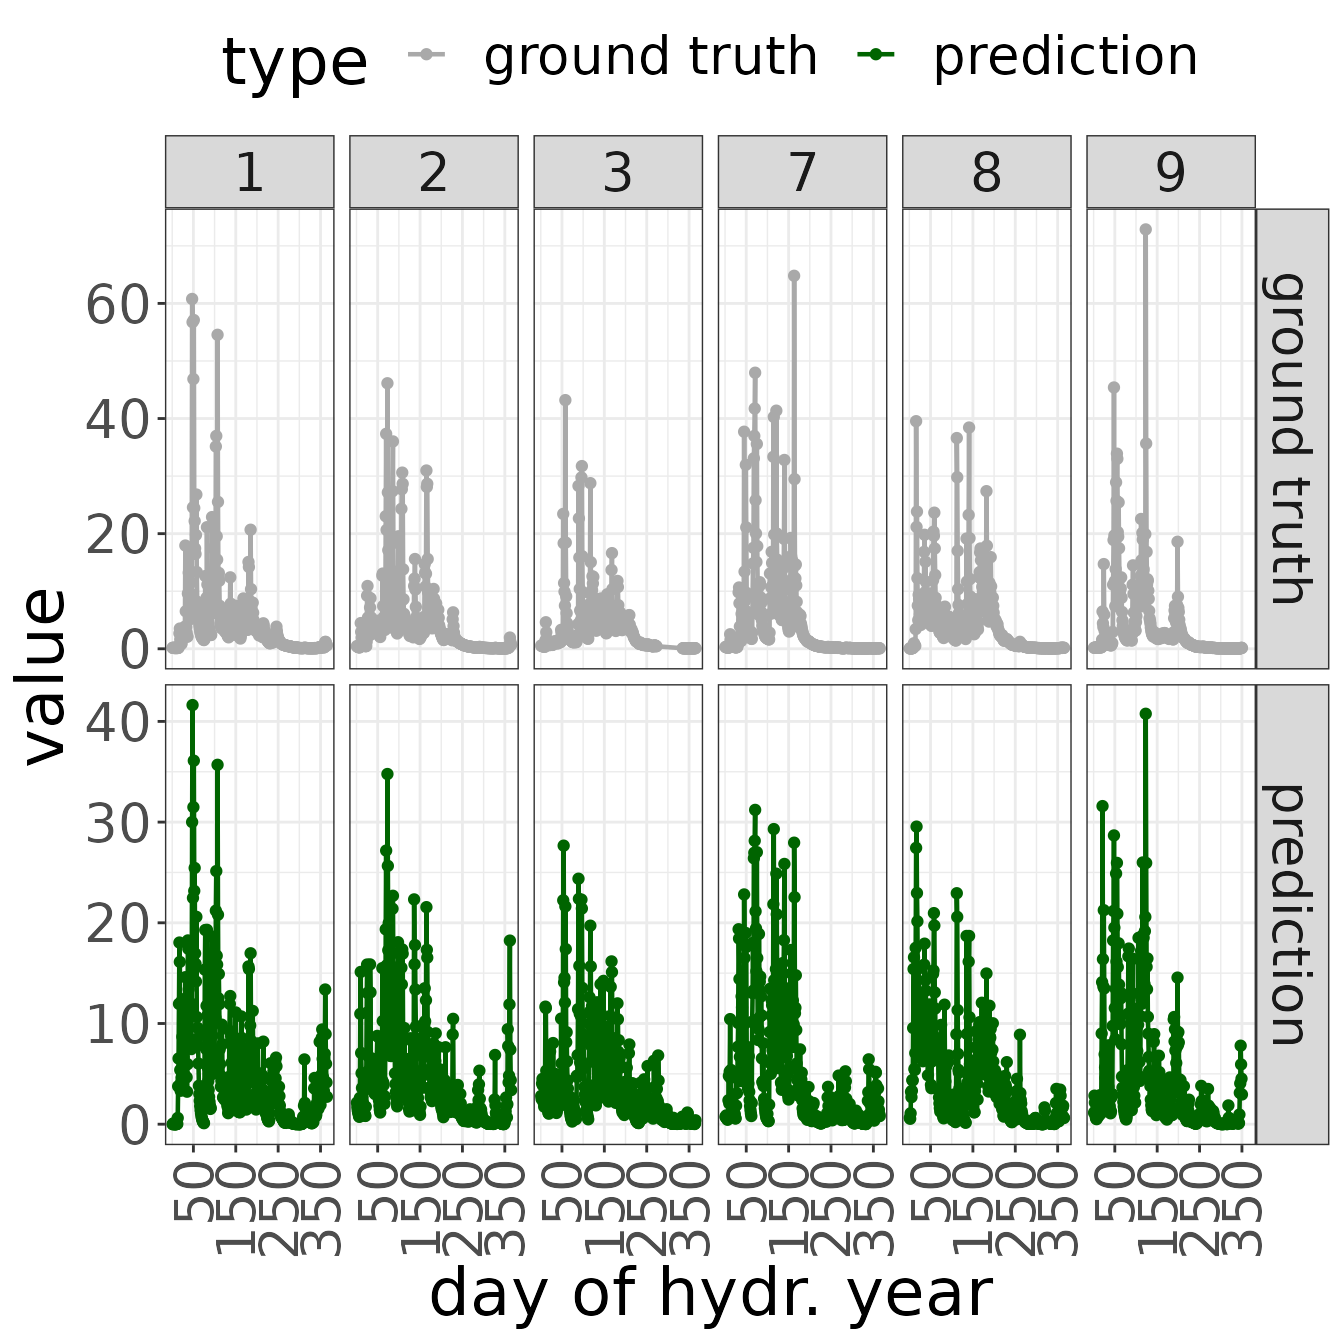
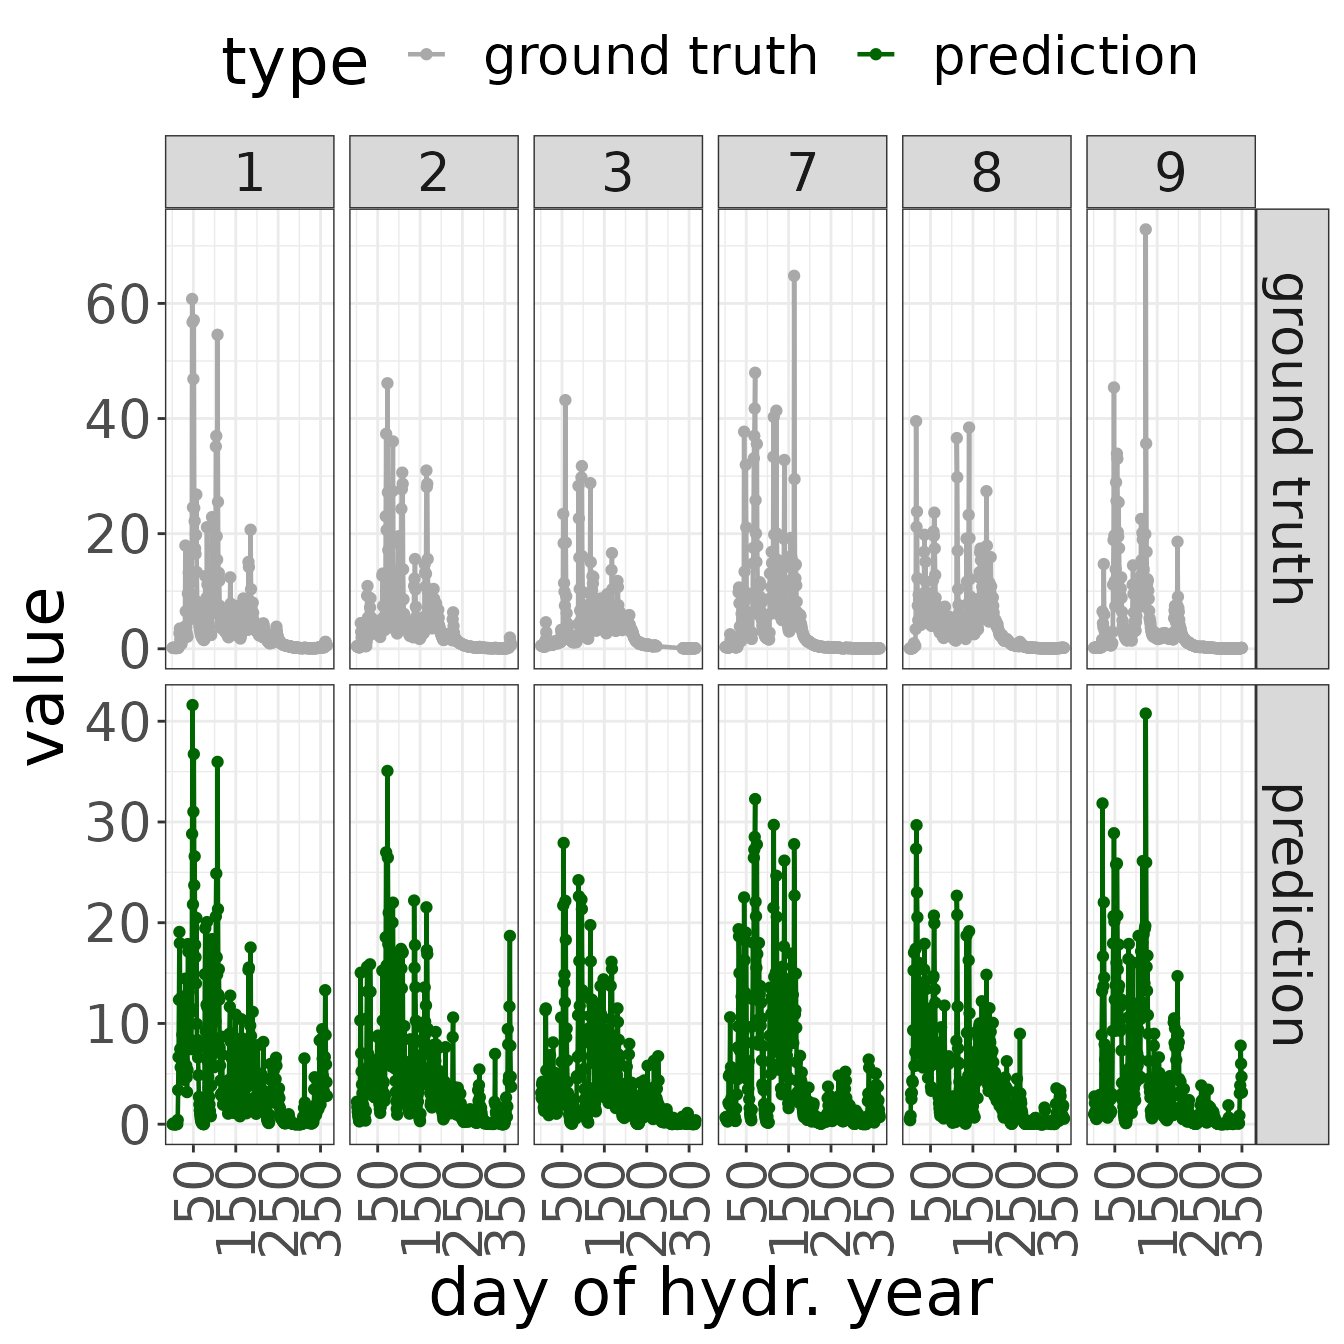
Deploying to gh-pages from @ sschrunner/SlidingWindowReg@dbefc789b85749bd9dbde1c45d30036f2cb8ef8a 🚀

diff --git a/index.html b/index.html
@@ -66,18 +66,21 @@
 <!-- badges: start -->
 
 <div class="section level2">
-<h2 id="a-sliding-multi-window-regression-model">A Sliding Multi-Window Regression Model<a class="anchor" aria-label="anchor" href="#a-sliding-multi-window-regression-model"></a>
+<h2 id="a-gaussian-sliding-windows-regression-model">A Gaussian Sliding Windows Regression Model<a class="anchor" aria-label="anchor" href="#a-gaussian-sliding-windows-regression-model"></a>
 </h2>
-<p>This R package presents a Sliding Multi-Window Regression model for hydrological inference. Given an input time series <span class="math inline"><em>x</em><sub><em>t</em></sub></span> (describing rainfall in a hydrological setting) and a time-dependent target variable <span class="math inline"><em>y</em><sub><em>t</em></sub></span> describing the gauged watershed runoff, the model is based on a set of <span class="math inline"><em>k</em></span> lagged window kernels modeling one component of the overall water runoff each. For instance, surface flow, characterized by short time lags, may be represented by window 1, while groundwater flow is described by a second window with longer time lag.</p>
-<p>Each window <span class="math inline"><em>i</em> ∈ {1, …, <em>k</em>}</span> is characterized by * a location parameter <span class="math inline"><em>δ</em><sub><em>i</em></sub></span> indicating the time lag, i.e. the distance between the window center and the estimated time point on the time axis, and * a size parameter <span class="math inline"><em>σ</em><sub><em>i</em></sub></span> defining the width <span class="math inline"><em>l</em><sub><em>i</em></sub></span> of the window. The predicted runoff associated with window <span class="math inline"><em>i</em></span> is computed as the rolling average of the input time series <span class="math inline"><em>x</em><sub><em>t</em></sub></span> with the window kernel parameters <span class="math inline"><em>κ</em><sub><em>i</em></sub></span> as weights, i.e. <span class="math inline"><em>κ</em><sub><em>i</em></sub><sup><em>T</em></sup><em>x</em><sub><em>S</em><sub><em>i</em></sub></sub></span>, where <span class="math inline"><em>S</em><sub><em>i</em></sub> = {<em>t</em> − <em>δ</em><sub><em>i</em></sub> − <em>l</em><sub><em>i</em></sub>, …, <em>t</em> − <em>δ</em><sub><em>i</em></sub> + <em>l</em><sub><em>i</em></sub>}</span> is the set of time lags <span class="math inline"><em>δ</em><sub><em>i</em></sub> − <em>l</em><sub><em>i</em></sub></span> to <span class="math inline"><em>δ</em><sub><em>i</em></sub> + <em>l</em><sub><em>i</em></sub></span>, and <span class="math inline"><em>x</em><sub><em>S</em><sub><em>i</em></sub></sub> = (<em>x</em><sub><em>t</em> − 1</sub>,…,<em>x</em><sub><em>t</em> − <em>l</em></sub>)</span> denotes the vector of lagged observations.</p>
-<p>The predicted output <span class="math inline"><em>y</em><sub><em>t</em></sub></span> is modeled as a multiple linear regression model</p>
-<p><span class="math display"><em>y</em><sub><em>t</em></sub> = <em>β</em><sub>1</sub>(<em>κ</em><sub>1</sub><sup><em>T</em></sup><em>x</em><sub><em>t</em></sub>) + <em>β</em><sub>2</sub>(<em>κ</em><sub>2</sub><sup><em>T</em></sup><em>x</em><sub><em>t</em></sub>) + … + <em>β</em><sub><em>k</em></sub>(<em>κ</em><sub><em>k</em></sub><sup><em>T</em></sup><em>x</em><sub><em>t</em></sub>) + <em>ε</em><sub><em>t</em></sub>,</span></p>
+<p>This R package presents a Sliding Windows Regression model with Gaussian kernels for hydrological inference, see <a href="https://arxiv.org/abs/2306.00453" class="external-link">Schrunner et al. (2023)</a>. Given an input time series <span class="math inline">(<em>x</em><sub><em>t</em></sub>)_<em>t</em> ∈ <em>T</em></span> (describing rainfall in a hydrological setting) and a time-dependent target variable <span class="math inline">(<em>y</em><sub><em>t</em></sub>)_<em>t</em> ∈ <em>T</em></span> describing the gauged watershed runoff, the model utilizes a set of <span class="math inline"><em>k</em></span> lagged time windows to model one water path each. For instance, surface flow, characterized by short time lags, may be represented by the first window, while groundwater flow is described by a second window with longer time lags.</p>
+<p>A lagged time window <span class="math inline"><em>W</em></span> is an interval on the time axis bounded by time lags <span class="math inline"><em>s</em><sub>min</sub> &lt; <em>s</em><sub>max</sub></span> relative to the current time point <span class="math inline"><em>t</em></span>, <span class="math display">$$W = \[t-s_{\max},t-s_{\min}\].$$</span> For simplicity, <span class="math inline"><em>W</em></span> is represented by its window center (location parameter) <span class="math inline">$\delta = \frac{s_{\min} + s_{\max}}{2}$</span> and the radius (size parameter) <span class="math inline">$l=\frac{s_{\max}-s_{\min}}{2}$</span>, rather than <span class="math inline"><em>s</em><sub>min</sub></span> and <span class="math inline"><em>s</em><sub>max</sub></span> (assuming even-numbered window lengths). For multiple windows <span class="math inline"><em>i</em> = 1, …, <em>k</em></span>, the parameters are given by * location parameters <span class="math inline"><em>δ</em><sub><em>i</em></sub></span> indicating the window centers on the time axis, i.e. the distance between the window center and the estimated time point on the time axis, and * size parameters <span class="math inline"><em>σ</em><sub><em>i</em></sub></span> defining the widths <span class="math inline"><em>l</em><sub><em>i</em></sub></span> of the windows.</p>
+<p>Given such a window <span class="math inline"><em>W</em><sub><em>i</em></sub></span>, we define a Gaussian kernel <span class="math inline"><em>κ</em><sup>(<em>i</em>)</sup></span> as a weight vector approximating the shape of a Gaussian probability density function <span class="math inline"><em>φ</em></span> with mean <span class="math inline"><em>μ</em> = <em>δ</em><sub><em>i</em></sub></span> and standard deviation <span class="math inline">$\sigma = \lceil\frac{l_i}{3}\rceil$</span>. The predicted runoff associated with window <span class="math inline"><em>i</em></span> is then computed as the convolution of the input time series <span class="math inline">(<em>x</em><sub><em>t</em></sub>)_<em>t</em> ∈ <em>T</em></span> with the window kernel <span class="math inline"><em>κ</em><sup>(<em>i</em>)</sup></span> as weight vector, i.e. <span class="math inline"><em>κ</em><sup>(<em>i</em>)</sup> * <em>x</em><sub><em>W</em><sub><em>i</em></sub></sub></span>, where <span class="math inline"><em>x</em><sub><em>W</em></sub> = (<em>x</em><sub><em>t</em> − <em>s</em><sub>max</sub></sub>,…,<em>x</em><sub><em>t</em> − <em>s</em><sub>min</sub></sub>)</span> denotes the vector of lagged observations and <span class="math inline">*</span> denotes the convolution operator.</p>
+<p>Overall, the predicted output <span class="math inline"><em>y</em><sub><em>t</em></sub></span> is modeled as a multiple linear regression model</p>
+<p><span class="math display">$$ y_t = \sum\limits_{i=1}^{k} \beta_i \left(\kappa^{(i)} \ast x_{W_i}\right) + \varepsilon_t, $$</span></p>
 <p>where <span class="math inline"><em>ε</em><sub><em>t</em></sub></span> denotes the model error.</p>
 </div>
 <div class="section level2">
 <h2 id="package-structure">Package structure<a class="anchor" aria-label="anchor" href="#package-structure"></a>
 </h2>
-<p>The core functionality of the package consists of a <tt>train</tt> and a <tt>predict</tt> function, respectively. Further, functions for evaluating and plotting model results and parameters are provided.</p>
+<p>The core functionality of the package consists of functions <tt>train</tt> and <tt>predict</tt>, which perform the model fitting and forecasting steps, respectively. Further, functions for evaluating and plotting model results and parameters are provided.</p>
+<p>The implementation builds on an S3 class <tt>SWR</tt>, which implements multiple generic functions, such as <tt>summary</tt>, <tt>plot</tt>, <tt>coef</tt>, <tt>dim</tt>, <tt>AIC</tt>, or <tt>BIC</tt>. Further, evaluation metrics can be computed using <tt>eval_all</tt>, which calls regression performance metrics <tt>rmse</tt> (root mean square error, RMSE), <tt>nrmse</tt> (normalized RMSE), <tt>r2</tt> (coefficient of determination), as well as hydrological metrics <tt>nse</tt> (Nash-Sutcliffe efficiency) and <tt>kge</tt> (Kling-Gupta efficientcy). Plots are provided for the kernel vectors <span class="math inline"><em>κ</em><sup>(<em>i</em>)</sup></span> via <tt>plot_kernel</tt>, as well as for the predictions using <tt>plot_prediction</tt>.</p>
+<p>A sample dataset <tt>sampleWatershed</tt> is contained in the package. The data originates from a real-world watershed in Cowichan, British Columbia, Canada and contains daily precipitation (input time series), as well as gauged runoff (output time series). Both time series cover a period of 39 hydrological years, starting on October 01, 1979.</p>
 </div>
 <div class="section level2">
 <h2 id="installation">Installation<a class="anchor" aria-label="anchor" href="#installation"></a>
@@ -100,13 +103,32 @@
 <li>parallel,</li>
 <li>pbapply,</li>
 <li>rdist,</li>
-<li>stats</li>
+<li>stats,</li>
+<li>lifecycle</li>
 </ul>
+</div>
+<div class="section level2">
+<h2 id="citation">Citation<a class="anchor" aria-label="anchor" href="#citation"></a>
+</h2>
+<p>If you use <tt>SlidingWindowReg</tt> in a report or scientific publication, we would appreciate citations to the following preprint:</p>
+<p>Schrunner, S. et al. (2023). A Gaussian Sliding Windows Regression Model for Hydrological Inference. arXiv.org (preprint), 2023, <a href="https://doi.org/10.48550/arXiv.2306.00453" class="external-link uri">https://doi.org/10.48550/arXiv.2306.00453</a></p>
+<p>Bibtex entry:</p>
+<div class="sourceCode" id="cb2"><pre class="sourceCode R"><code class="sourceCode r"><span id="cb2-1"><a href="#cb2-1" aria-hidden="true" tabindex="-1"></a><span class="sc">@</span>misc{schrunner2023gaussian,</span>
+<span id="cb2-2"><a href="#cb2-2" aria-hidden="true" tabindex="-1"></a>  title<span class="ot">=</span>{A Gaussian Sliding Windows Regression Model <span class="cf">for</span> Hydrological Inference}, </span>
+<span id="cb2-3"><a href="#cb2-3" aria-hidden="true" tabindex="-1"></a>  author<span class="ot">=</span>{Stefan Schrunner and Joseph Janssen and Anna Jenul and Jiguo Cao and Ali A. Ameli and William J. Welch},</span>
+<span id="cb2-4"><a href="#cb2-4" aria-hidden="true" tabindex="-1"></a>  year<span class="ot">=</span>{<span class="dv">2023</span>},</span>
+<span id="cb2-5"><a href="#cb2-5" aria-hidden="true" tabindex="-1"></a>  howpublished<span class="ot">=</span>{<span class="fu">arXiv.org</span> (preprint)},</span>
+<span id="cb2-6"><a href="#cb2-6" aria-hidden="true" tabindex="-1"></a>  eprint<span class="ot">=</span>{<span class="fl">2306.00453</span>},</span>
+<span id="cb2-7"><a href="#cb2-7" aria-hidden="true" tabindex="-1"></a>  archivePrefix<span class="ot">=</span>{arXiv},</span>
+<span id="cb2-8"><a href="#cb2-8" aria-hidden="true" tabindex="-1"></a>  primaryClass<span class="ot">=</span>{stat.ME},</span>
+<span id="cb2-9"><a href="#cb2-9" aria-hidden="true" tabindex="-1"></a>  doi<span class="ot">=</span>{<span class="fl">10.48550</span><span class="sc">/</span>arXiv.<span class="fl">2306.00453</span>},</span>
+<span id="cb2-10"><a href="#cb2-10" aria-hidden="true" tabindex="-1"></a>  url<span class="ot">=</span>{https<span class="sc">:</span><span class="er">//</span>doi.org<span class="sc">/</span><span class="fl">10.48550</span><span class="sc">/</span>arXiv.<span class="fl">2306.00453</span>}</span>
+<span id="cb2-11"><a href="#cb2-11" aria-hidden="true" tabindex="-1"></a>  }</span></code></pre></div>
 </div>
 <div class="section level2">
 <h2 id="contact">Contact<a class="anchor" aria-label="anchor" href="#contact"></a>
 </h2>
-<p>The implemented method was developed in collaboration between</p>
+<p>The implemented Gaussian Sliding Windows Regression model was developed in collaboration between</p>
 <ul>
 <li>Norwegian University of Life Sciences (NMBU), Ås, Norway,</li>
 <li>University of British Columbia (UBC), Vancouver, Canada, and</li>

diff --git a/articles/sampleExperiment.html b/articles/sampleExperiment.html
@@ -176,9 +176,9 @@ model summary:</p>
 <span><span class="co">## </span></span>
 <span><span class="co">## | window| delta| sigma| beta|</span></span>
 <span><span class="co">## |------:|-----:|-----:|----:|</span></span>
-<span><span class="co">## |      1|  0.25|  2.80| 0.31|</span></span>
-<span><span class="co">## |      2|  0.54|  0.01| 0.36|</span></span>
-<span><span class="co">## |      3|  6.17|  5.03| 0.21|</span></span></code></pre>
+<span><span class="co">## |      1|  0.76|  0.00| 0.37|</span></span>
+<span><span class="co">## |      2|  0.81|  1.79| 0.17|</span></span>
+<span><span class="co">## |      3|  3.96|  3.19| 0.32|</span></span></code></pre>
 <p>In specific, the main model parameters are stored as:</p>
 <ul>
 <li>a matrix characterizing the location and size of the windows (column
@@ -189,34 +189,30 @@ variance)</li>
 <div class="sourceCode" id="cb10"><pre class="downlit sourceCode r">
 <code class="sourceCode R"><span><span class="co"># window parameters</span></span>
 <span><span class="fu"><a href="https://rdrr.io/r/base/print.html" class="external-link">print</a></span><span class="op">(</span><span class="va">mod</span><span class="op">$</span><span class="va">param</span><span class="op">)</span></span></code></pre></div>
-<pre><code><span><span class="co">##          delta       sigma</span></span>
-<span><span class="co">## [1,] 0.2478884 2.802167899</span></span>
-<span><span class="co">## [2,] 0.5418713 0.008861073</span></span>
-<span><span class="co">## [3,] 6.1718921 5.034399911</span></span></code></pre>
+<pre><code><span><span class="co">##          delta    sigma</span></span>
+<span><span class="co">## [1,] 0.7596584 0.000000</span></span>
+<span><span class="co">## [2,] 0.8116486 1.794917</span></span>
+<span><span class="co">## [3,] 3.9595158 3.187064</span></span></code></pre>
 <div class="sourceCode" id="cb12"><pre class="downlit sourceCode r">
 <code class="sourceCode R"><span><span class="co"># regression parameters</span></span>
 <span><span class="fu"><a href="https://rdrr.io/r/base/print.html" class="external-link">print</a></span><span class="op">(</span><span class="va">mod</span><span class="op">$</span><span class="va">mix</span><span class="op">)</span></span></code></pre></div>
-<pre><code><span><span class="co">## [1] 0.3107634 0.3589877 0.2072376</span></span></code></pre>
+<pre><code><span><span class="co">## [1] 0.3718860 0.1696933 0.3163993</span></span></code></pre>
 <p>In order to visualize the estimated windows, a kernel plot is
 available in <tt>SlidingWindowReg</tt>:</p>
 <div class="sourceCode" id="cb14"><pre class="downlit sourceCode r">
 <code class="sourceCode R"><span><span class="fu"><a href="https://rdrr.io/r/stats/coef.html" class="external-link">coef</a></span><span class="op">(</span><span class="va">mod</span><span class="op">)</span></span></code></pre></div>
-<pre><code><span><span class="co">##                                                                     </span></span>
-<span><span class="co">## kernel1 0.00000000 0.000000000 0.0000000000 0.0000000000 0.000000000</span></span>
-<span><span class="co">## kernel2 0.00000000 0.000000000 0.0000000000 0.0000000000 0.000000000</span></span>
-<span><span class="co">## kernel3 0.00013115 0.000239641 0.0004209921 0.0007110614 0.001154677</span></span>
+<pre><code><span><span class="co">##                                                                      </span></span>
+<span><span class="co">## kernel1 0.0000000000 0.0000000000 0.000000000 0.000000000 0.000000000</span></span>
+<span><span class="co">## kernel2 0.0000000000 0.0000000000 0.000000000 0.000000000 0.000000000</span></span>
+<span><span class="co">## kernel3 0.0003127029 0.0007938935 0.001827984 0.003817376 0.007230067</span></span>
 <span><span class="co">##                                                                               </span></span>
-<span><span class="co">## kernel1 0.000000000 0.000000000 0.00000000 0.000000000 0.000000000 0.000000000</span></span>
-<span><span class="co">## kernel2 0.000000000 0.000000000 0.00000000 0.000000000 0.000000000 0.000000000</span></span>
-<span><span class="co">## kernel3 0.001802746 0.002706009 0.00390521 0.005418517 0.007228317 0.009270749</span></span>
-<span><span class="co">##                                         -9          -8          -7          -6</span></span>
-<span><span class="co">## kernel1 0.00000000 0.00000000 0.0005831947 0.001650033 0.004115474 0.009049024</span></span>
-<span><span class="co">## kernel2 0.00000000 0.00000000 0.0000000000 0.000000000 0.000000000 0.000000000</span></span>
-<span><span class="co">## kernel3 0.01143177 0.01355292 0.0154480433 0.016929147 0.017836832 0.018068473</span></span>
-<span><span class="co">##                 -5         -4         -3         -2         -1            0</span></span>
-<span><span class="co">## kernel1 0.01754057 0.02997441 0.04515714 0.05997553 0.07022563 7.249238e-02</span></span>
-<span><span class="co">## kernel2 0.00000000 0.00000000 0.00000000 0.00000000 0.35898727 4.124231e-07</span></span>
-<span><span class="co">## kernel3 0.01759731 0.01647753 0.01483403 0.01283947 0.01068454 8.548422e-03</span></span></code></pre>
+<span><span class="co">## kernel1 0.00000000 0.00000000 0.0000000000 0.0000000000 0.000000000 0.00000000</span></span>
+<span><span class="co">## kernel2 0.00000000 0.00000000 0.0001475455 0.0008261043 0.003415021 0.01042632</span></span>
+<span><span class="co">## kernel3 0.01241958 0.01934906 0.0273403163 0.0350379422 0.040725461 0.04293251</span></span>
+<span><span class="co">##                            -2         -1          0</span></span>
+<span><span class="co">## kernel1 0.00000000 0.00000000 0.37188603 0.00000000</span></span>
+<span><span class="co">## kernel2 0.02351558 0.03918776 0.04825794 0.04391702</span></span>
+<span><span class="co">## kernel3 0.04104872 0.03559638 0.02799655 0.01997077</span></span></code></pre>
 <div class="sourceCode" id="cb16"><pre class="downlit sourceCode r">
 <code class="sourceCode R"><span><span class="fu"><a href="https://rdrr.io/r/graphics/plot.default.html" class="external-link">plot</a></span><span class="op">(</span><span class="va">mod</span>, include_text <span class="op">=</span> <span class="cn">FALSE</span><span class="op">)</span></span></code></pre></div>
 <p><img src="sampleExperiment_files/figure-html/evaluate_param_plot-1.png" width="480" style="display: block; margin: auto;"></p>
@@ -233,8 +229,8 @@ test set. For this purpose, we compute the root mean squared error
 <span></span>
 <span><span class="fu"><a href="https://rdrr.io/r/base/print.html" class="external-link">print</a></span><span class="op">(</span><span class="fu"><a href="../reference/eval_all.html">eval_all</a></span><span class="op">(</span><span class="va">pred_on_test</span>, </span>
 <span>               <span class="va">sampleWatershed</span><span class="op">$</span><span class="va">gauge</span><span class="op">[</span><span class="op">-</span><span class="va">train_inds</span><span class="op">]</span><span class="op">)</span><span class="op">)</span></span></code></pre></div>
-<pre><code><span><span class="co">##       rmse     nrmse        r2       nse       kge</span></span>
-<span><span class="co">## 1 3.363101 0.8924661 0.7228439 0.7228439 0.7444633</span></span></code></pre>
+<pre><code><span><span class="co">##       rmse     nrmse       r2      nse       kge</span></span>
+<span><span class="co">## 1 3.367255 0.8935682 0.722159 0.722159 0.7599806</span></span></code></pre>
 <p>As a next step, we generate a plot demonstrating</p>
 <ul>
 <li>the input time series,</li>

diff --git a/reference/trainSWR.html b/reference/trainSWR.html
@@ -113,8 +113,8 @@
 <span class="r-out co"><span class="r-pr">#&gt;</span> </span>
 <span class="r-out co"><span class="r-pr">#&gt;</span> | window| delta| sigma| beta|</span>
 <span class="r-out co"><span class="r-pr">#&gt;</span> |------:|-----:|-----:|----:|</span>
-<span class="r-out co"><span class="r-pr">#&gt;</span> |      1|  0.73|  0.11| 0.44|</span>
-<span class="r-out co"><span class="r-pr">#&gt;</span> |      2|  1.77|  1.96| 0.46|</span>
+<span class="r-out co"><span class="r-pr">#&gt;</span> |      1|  0.74|  0.11| 0.44|</span>
+<span class="r-out co"><span class="r-pr">#&gt;</span> |      2|  1.79|  1.97| 0.46|</span>
 <span class="r-out co"><span class="r-pr">#&gt;</span> </span>
 </code></pre></div>
     </div>
